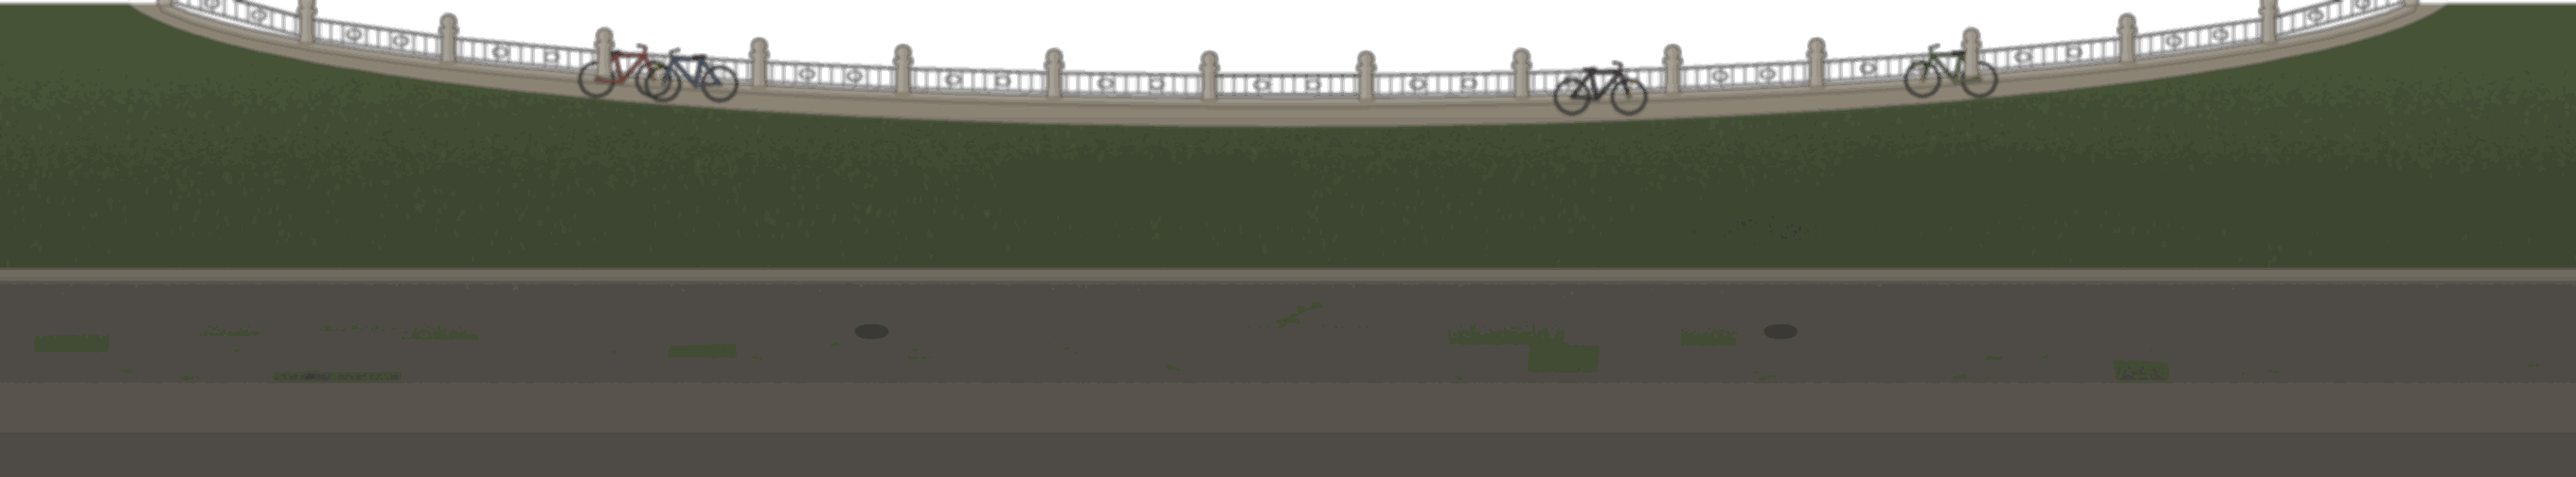
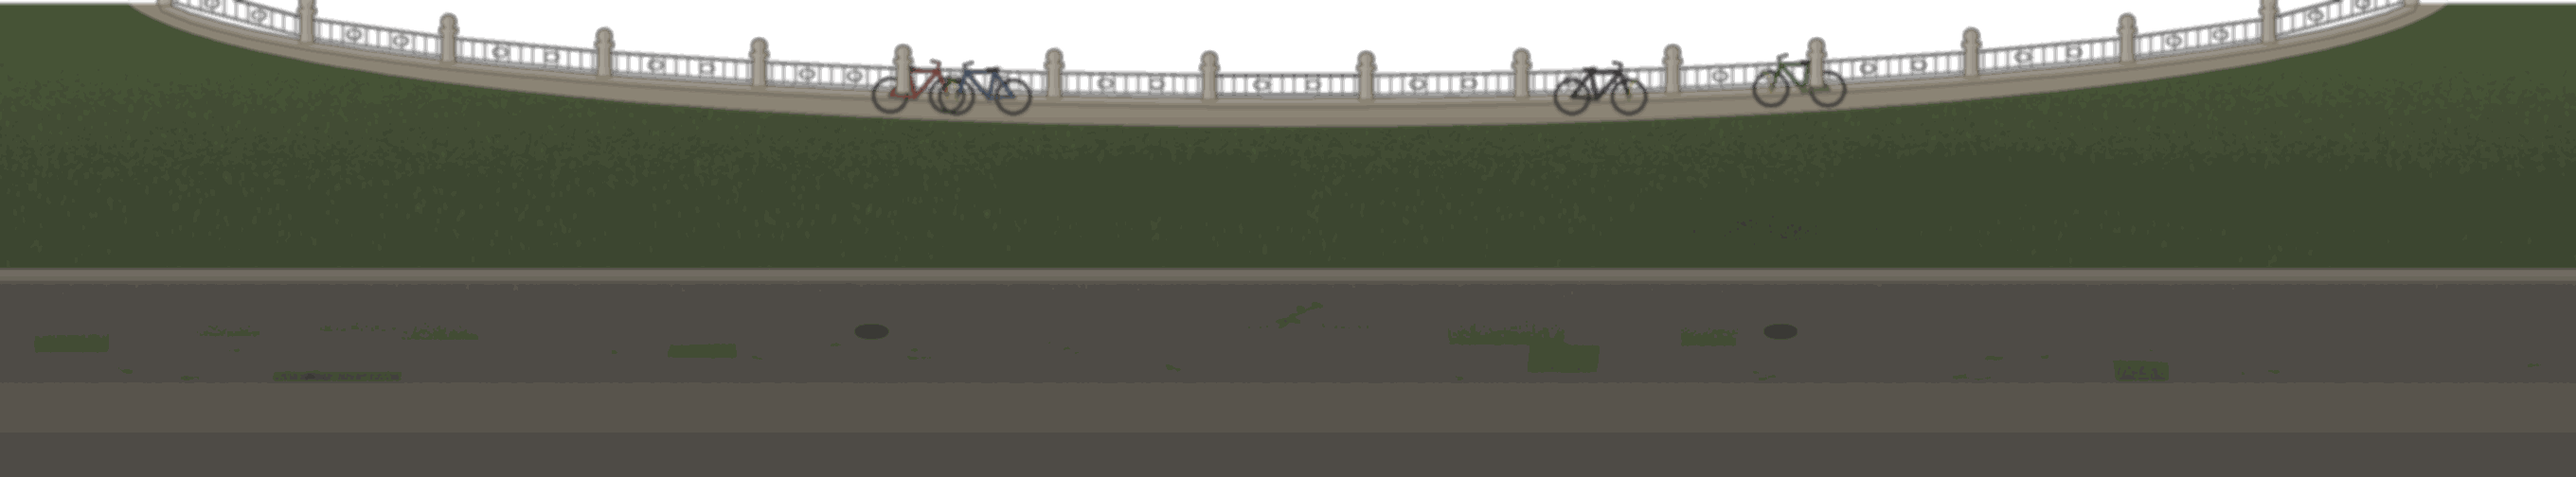
Padova: i ponti collegano la piazza dove si gioca al parco di qua del canale, in prospettiva verso la telecamera (#378)
Claude-Session: https://claude.ai/code/session_01Bf1d2rFJnp9n4pFf7DSqn4

Changed region(s): [[0.6562, 0.0893, 0.7812, 0.2381], [0.3438, 0.119, 0.4062, 0.2381], [0.2188, 0.0893, 0.2812, 0.2083]]

diff --git a/src/shared/stages.ts b/src/shared/stages.ts
@@ -554,6 +554,9 @@ export const STAGES: Record<string, StageSpec> = {
         { file: "fontana-davanti.png", x: 960, y: 530, front: true, opacity: 0.7 }, // il bordo della vasca davanti ai piedi
         // La sponda di qua del canale (#378), sfocata davanti a tutto: il canale resta una striscia stretta come quello vero
         { file: "primo-piano.png", x: 960, y: 1100, scale: 1, front: true },
+        // I ponti del Prato davanti (#378, dalle foto di Riccardo): dalla piazza dove si gioca al parco di qua del canale.
+        // Solo paesaggio: non si attraversano (vengono verso la telecamera, fuori dal piano di gioco)
+        { file: "ponti-davanti.png", x: 960, y: 780, front: true },
         // Le statue del Prato in primissimo piano (#378), sfocate e trasparenti, solo fuori dall'isola
         { file: "statue-primo-piano.png", x: 960, y: 1100, scale: 1, front: true, opacity: 0.45 },
         // Le statue che reggono le lastre: il giovane con l'alloro, il filosofo con la barba, la dama col velo

diff --git a/tools/arene/padova.py b/tools/arene/padova.py
@@ -1975,7 +1975,7 @@ def near_bank(name):
     q.fill(iron, (44, 42, 44))
     q.fill(q.rim(iron, -0.5, -0.8, 0.4), (110, 108, 104), 0.6)
     # le bici legate alla ringhiera, sul lastricato davanti
-    for bx, col, fl in ((260, (150, 60, 50), 1), (330, (60, 84, 120), -1), (1290, (40, 40, 44), 1), (1660, (90, 120, 80), -1)):
+    for bx, col, fl in ((570, (150, 60, 50), 1), (640, (60, 84, 120), -1), (1290, (40, 40, 44), 1), (1500, (90, 120, 80), -1)):
         ex = min(arc, key=lambda p: abs(p[0] - bx))
         _parked_bike(q, bx, ex[1] + 22, col, fl)
     pm = q.mask()
@@ -2365,6 +2365,144 @@ def _walk_bridge_painted(t, x_in, x_out, rng):
         _obelisk(t, x + (3 if x < mid else -3), y + 1, 0.9 * K, (84, 78, 72, 255))
 
 
+VP = (960, -420)  # il punto di fuga delle linee che vengono verso la telecamera (#378): in alto al centro, lontano
+
+
+def toward_camera(x_far, y_far, y_near):
+    """Dove sta, alla quota y_near, il punto che alla quota y_far è in x_far, su una linea che viene verso la telecamera:
+    tutte queste linee scappano verso VP. Restituisce (x_near, quanto è più grande là)."""
+    k = (y_near - VP[1]) / (y_far - VP[1])
+    return VP[0] + (x_far - VP[0]) * k, k
+
+
+def _front_bridge(q, cf, rng):
+    """Un ponte del Prato che collega la piazza dove si gioca al parco di qua del canale (#378, dalle foto di Riccardo):
+    parte dal bordo davanti della piazza (centro cf, y 524) e viene verso la telecamera fino alla sponda di qua, con le
+    linee che scappano verso il punto di fuga. Lo si vede di tre quarti come nelle foto: dall'alto la passerella
+    lastricata tra i due parapetti traforati, e il fianco rivolto al centro dell'arena con l'arco ribassato sull'acqua,
+    i conci, l'umido e il riflesso; ai capi i piedistalli, e verso di noi gli obelischi. Si disegna davanti all'acqua,
+    ma non si attraversa: è solo il paesaggio."""
+    from pittura import bezier
+    S, S_SH, S_DK, S_HI = (228, 224, 212), (176, 170, 158), (128, 124, 116), (246, 244, 236)
+    ink = (78, 72, 66)
+    yf, yn = 526, 684  # il capo sulla piazza e quello sulla sponda di qua
+    half_f = 46  # mezza larghezza del ponte al capo lontano
+    sg = 1 if cf < 960 else -1  # da che parte guarda il fianco che si vede: verso il centro
+    n = 40
+
+    def edge(off, u, lift=0.0):  # un punto sul bordo del ponte (off -1 sinistra, 1 destra) a u (0 lontano, 1 vicino)
+        y = yf + (yn - yf) * u
+        xn, k = toward_camera(cf + off * half_f, yf, y)
+        return (xn, y - lift * k - 9 * k * math.sin(math.pi * u) ** 0.9)  # una gobba leggera
+
+    def scale(u):
+        return toward_camera(cf, yf, yf + (yn - yf) * u)[1]
+
+    us = [i / n for i in range(n + 1)]
+    L = [edge(-1, u) for u in us]
+    R = [edge(1, u) for u in us]
+    vis = R if sg > 0 else L  # il bordo dalla parte del centro, con il fianco che si vede sotto
+    hid = L if sg > 0 else R
+    # il fianco: dal bordo giù fino al pelo dell'acqua, che sotto la piazza è a y 600 e verso di noi arriva alla sponda
+    # di qua; lì il ponte poggia sulla spalla della sponda. In mezzo l'arco ribassato
+    drop = [(x, max(y + 6, 600 + (yn - 8 - 600) * u ** 1.2 + 0 * y)) for (x, y), u in zip(vis, us)]
+    side = q.poly(q.mask(), vis + list(reversed(drop)))
+    arch_top = [(x, y + 22 * scale(u)) for (x, y), u in zip(vis, us)]
+    lo, hi = 0.1, 0.8
+    arch = []
+    for i in range(n + 1):
+        u = lo + (hi - lo) * i / n
+        j = min(n, int(u * n))
+        (tx, ty), (dx, dy) = arch_top[j], drop[j]
+        f = math.sin(math.pi * i / n) ** 0.6
+        arch.append((tx, dy - (dy - ty) * f))
+    opening = q.poly(q.mask(), [drop[int(lo * n)]] + arch + [drop[int(hi * n)]])
+    q.fill(side, S)
+    q.fill(q.grain(side, 0.35, 71, 0.9), (150, 148, 138), 0.45)
+    q.fill(opening, (70, 98, 92))  # sotto l'arco: l'acqua che passa e la volta in ombra
+    vault = q.poly(q.mask(), arch + [(x - sg * 14 * scale(lo + (hi - lo) * i / n), y + 8) for i, (x, y) in reversed(list(enumerate(arch)))])
+    q.fill(q.intersect(q.soften(vault, 2), opening), (40, 56, 52), 0.9)
+    q.fill(q.intersect(q.soften(q.poly(q.mask(), [(x, y - 8) for x, y in drop] + list(reversed(drop))), 2), opening), (140, 168, 156), 0.6)
+    side = q.minus(side, opening)
+    q.fill(q.inner_shadow(side, sg * 6, -4, 5), S_SH, 0.6)  # il fianco è in ombra dalla parte lontana dalla luce
+    damp = q.poly(q.mask(), [(x, y - 16 * scale(u)) for (x, y), u in zip(drop, us)] + list(reversed(drop)))
+    q.fill(q.intersect(q.soften(damp, 3), side), (96, 104, 80), 0.6)
+    ring = q.minus(q.poly(q.mask(), [drop[int(lo * n)]] + [(x, y - 8) for x, y in arch] + [drop[int(hi * n)]]), opening)
+    q.fill(q.intersect(ring, side), (236, 232, 222))
+    vj = q.mask()
+    for i in range(2, n - 1, 3):
+        x, y = arch[i]
+        q.stroke(vj, [(x, y), (x, y - 8)], 0.6)
+    q.fill(q.intersect(vj, ring), S_DK, 0.8)
+    corn = q.poly(q.mask(), vis + [(x, y + 5 * scale(u)) for (x, y), u in reversed(list(zip(vis, us)))])
+    q.fill(corn, S_HI)
+    q.fill(q.soften(q.poly(q.mask(), [(x, y + 5 * scale(u)) for (x, y), u in zip(vis, us)] + [(x, y + 10 * scale(u)) for (x, y), u in reversed(list(zip(vis, us)))]), 2), (40, 38, 34), 0.35)
+    q.outline(q.union(side, opening), 0.6, ink)
+    # il riflesso del fianco nell'acqua, spezzato
+    refl = q.mask()
+    for (x, y), u in list(zip(drop, us))[::2]:
+        q.stroke(refl, [(x - 6, y + 3 + rng.uniform(0, 6)), (x + 6, y + 3 + rng.uniform(0, 6))], 1.0 * scale(u))
+    q.fill(q.soften(refl, 0.5), (200, 204, 194), 0.45)
+    # il parapetto dalla parte lontana dal centro, visto da dentro
+    hp = q.poly(q.mask(), hid + [(x, y - 12 * scale(u)) for (x, y), u in reversed(list(zip(hid, us)))])
+    q.fill(hp, S_SH)
+    holes = q.mask()
+    for (x, y), u in list(zip(hid, us))[1:-1]:
+        k = scale(u)
+        q.poly(holes, [(x, y - 10 * k), (x + 1.6 * k, y - 6 * k), (x, y - 2 * k), (x - 1.6 * k, y - 6 * k)])
+    q.fill(q.intersect(holes, hp), (150, 160, 146))
+    q.line([(x, y - 12.5 * scale(u)) for (x, y), u in zip(hid, us)], 2.6, S)
+    q.outline(hp, 0.45, ink)
+    # la passerella lastricata, vista dall'alto
+    deck = q.poly(q.mask(), L + list(reversed(R)))
+    q.fill(deck, (206, 200, 186))
+    q.fill(q.grain(deck, 0.3, 72, 0.9), (180, 174, 160), 0.6)
+    joints = q.mask()
+    for i in range(2, n, 3):
+        q.stroke(joints, [L[i], R[i]], 0.5 + 0.4 * us[i])
+    for f in (0.33, 0.66):
+        q.stroke(joints, [(lx + (rx - lx) * f, ly + (ry - ly) * f) for (lx, ly), (rx, ry) in zip(L, R)], 0.5)
+    q.fill(q.intersect(joints, deck), (164, 158, 144), 0.85)
+    # il parapetto dalla parte del centro: la lastra traforata vista da fuori
+    vp = q.poly(q.mask(), vis + [(x, y - 13 * scale(u)) for (x, y), u in reversed(list(zip(vis, us)))])
+    holes = q.mask()
+    for (x, y), u in list(zip(vis, us))[1:-1]:
+        k = scale(u)
+        q.poly(holes, [(x, y - 11 * k), (x + 1.8 * k, y - 6.5 * k), (x, y - 2 * k), (x - 1.8 * k, y - 6.5 * k)])
+    panel = q.minus(vp, holes)
+    q.fill(panel, S)
+    q.fill(q.inner_shadow(panel, 0, -2, 1.2), S_SH, 0.8)
+    q.fill(q.intersect(holes, vp), (176, 170, 156))
+    q.line([(x, y - 13.5 * scale(u)) for (x, y), u in zip(vis, us)], 3.2, S)
+    q.line([(x, y - 14.3 * scale(u)) for (x, y), u in zip(vis, us)], 1.0, S_HI)
+    q.outline(vp, 0.5, ink)
+    return L, R, scale
+
+
+def front_bridges(name):
+    """I due ponti davanti (#378): collegano la piazza dove si gioca al parco di qua del canale, come i ponti del Prato.
+    Decorazione davanti (front) in x 960, y 780, a 2x: x -60..1980, y 470..780."""
+    from pittura import Quadro
+    x0, y0, w, h = -60, 470, 2040, 310
+    q = Quadro(w, h, origin=(x0, y0))
+    rng = rand(3790)
+    ends = []
+    for cf in (250, 1670):
+        ends.append(_front_bridge(q, cf, rng))
+    img = q.result()
+    t = Tela(w, h, origin=(x0, y0), ss=1)  # a 2x come l'immagine del Quadro
+    t.img = img
+    t.d = ImageDraw.Draw(t.img)
+    ink = (84, 78, 72, 255)
+    for L, R, scale in ends:  # i piedistalli bassi sul capo della piazza e gli obelischi sul capo di qua
+        for x, y in (L[0], R[0]):
+            t.rect(x - 5, y - 10, x + 5, y + 2, fill=(222, 218, 206, 255), ink=True, width=0.6, ink_col=ink)
+        for x, y in (L[-1], R[-1]):
+            _obelisk(t, x, y + 2, 1.35, ink)
+    t.img.save(os.path.join(OUT, name), optimize=True)
+    print("scritto", name, t.img.size)
+
+
 def bridges_and_statues(name):
     """Le statue sulla sponda di là del canale e i ponticelli (#378, chiesto da Riccardo): la fila di statue del Prato
     lungo tutto l'ovale, più piccole lontano; il ponticello dietro la fontana visto di fronte, e i due alle punte
@@ -2403,8 +2541,7 @@ def bridges_and_statues(name):
     t.poly(deck, ink=True, width=0.8, ink_col=ink)
     # i ponti est e ovest dallo schizzo di Riccardo (#378): dalla punta dell'isola alla sponda di fuori, con l'asse della
     # passerella sulla linea del piano dove si gioca
-    for side in (-1, 1):
-        _walk_bridge_painted(t, 960 + side * 856, 960 + side * 1250, rng)
+    # i ponti est e ovest ora stanno davanti (ponti-davanti.png, #378): dalla piazza al parco di qua del canale
     t.save(OUT, name, colors=256)
 
 
@@ -3079,6 +3216,7 @@ if __name__ == "__main__":
     ansa("ansa.png")
     bridges_and_statues("ponticelli.png")
     near_bank("primo-piano.png")
+    front_bridges("ponti-davanti.png")
     near_statues("statue-primo-piano.png")
     layer("sfondo-0.png", sky, "sfondo-0-luci.png", lift=LIFT[0])
     layer("sfondo-1.png", buildings, "sfondo-1-luci.png", lift=LIFT[1])
